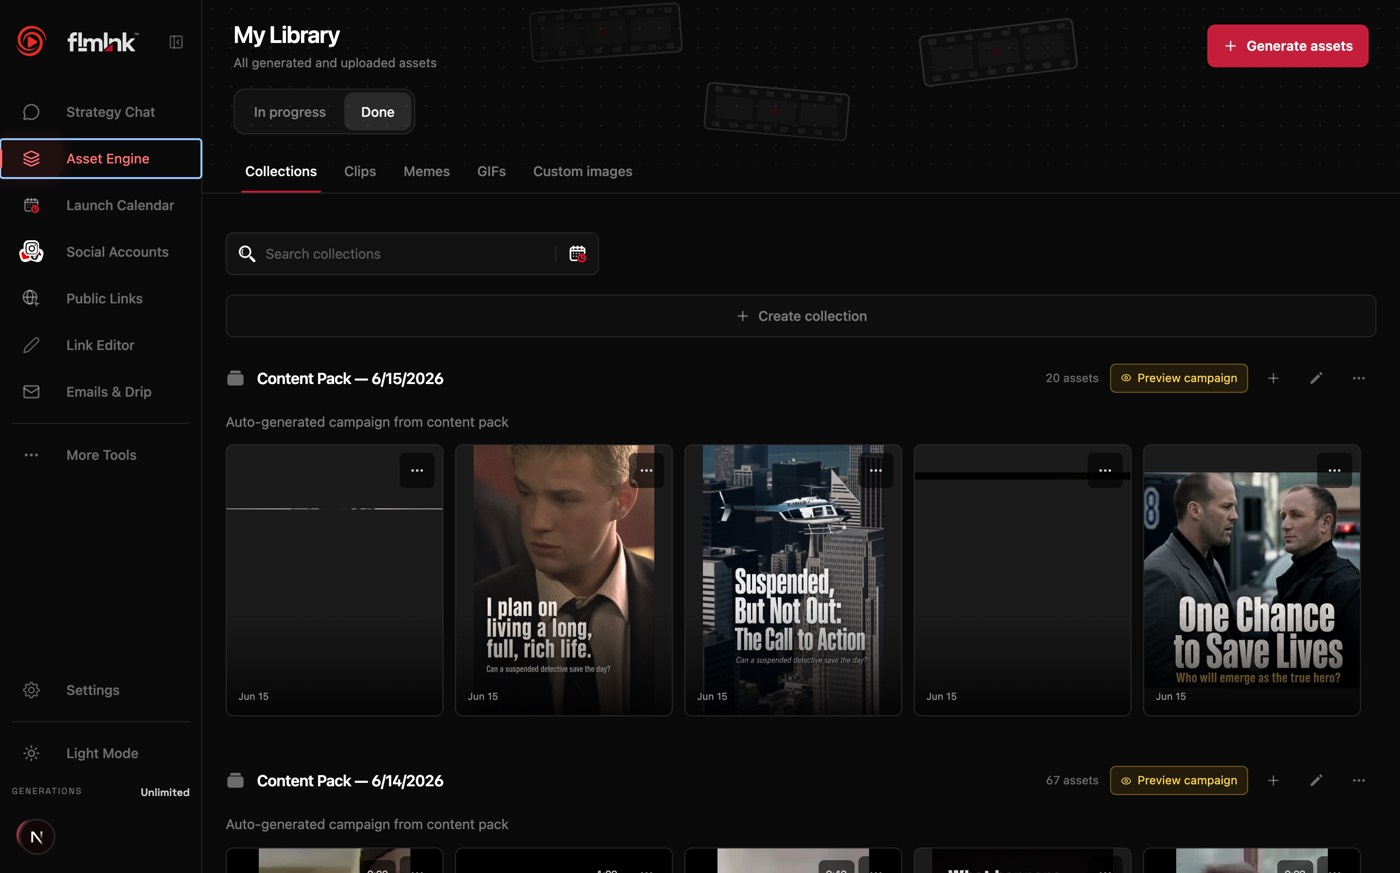
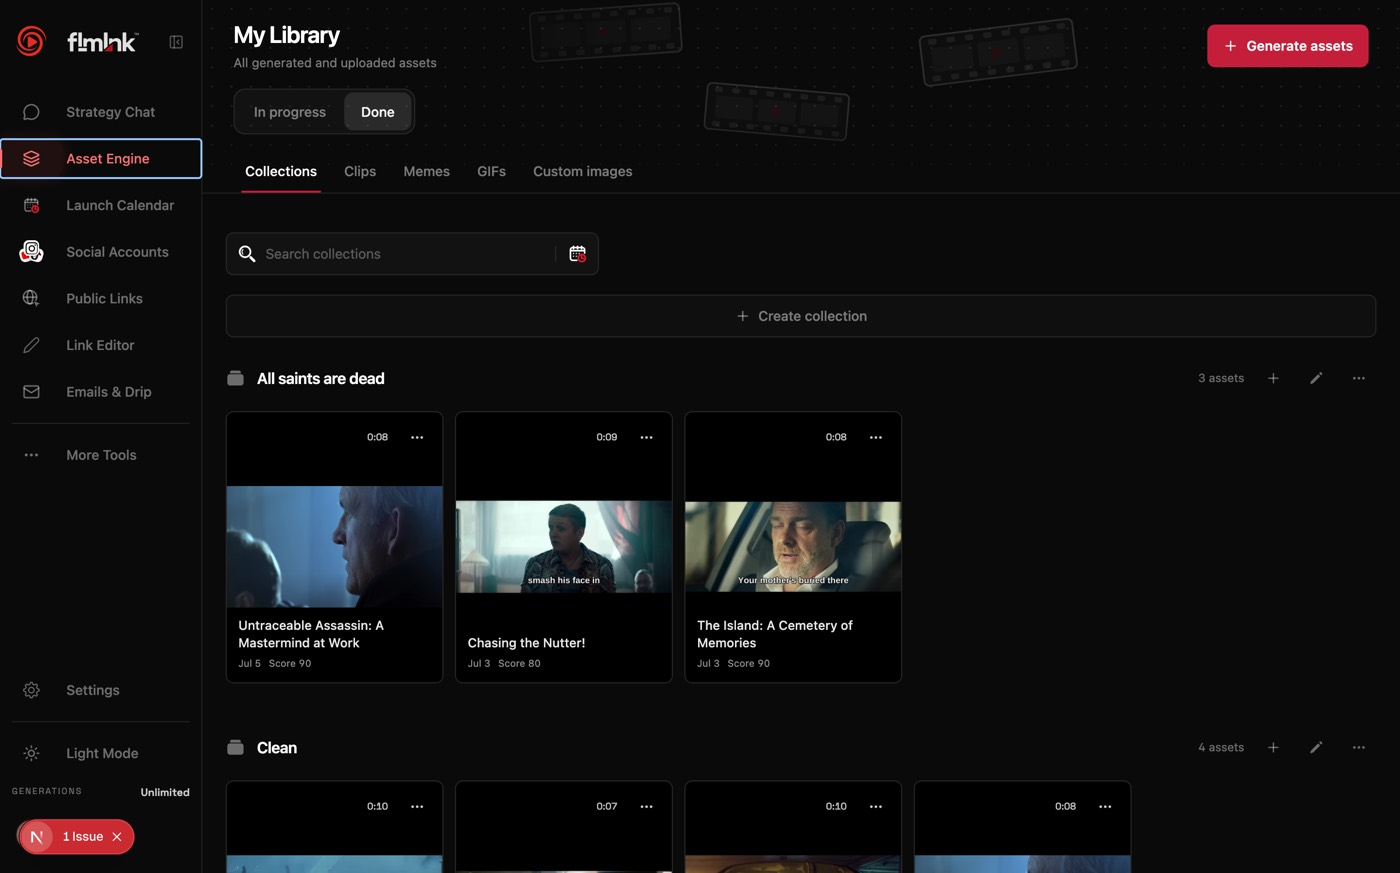
Recapture the after frames from the running build
Every after frame in the fix sections now comes from the current branch running
locally against its own data, captured at the same viewport in dark mode, rather
than from production which still holds auto-generated content packs from June.

That corrects the asset library comparison. A normal collection carries a real
name, a date and a score under clean artwork, with no campaign badge and no
repeated subtitle. The earlier frame showed legacy packs and was withdrawn.

Also upgraded the email composer and public links frames from the same session,
and added two screens that had no image before. Settings is now shown as the
document it was rebuilt into, which the log had listed as pending capture. The
link editor preview is included under the public page teardown because it shows
the match score, the rating, the leaked placeholder and both competing buttons
still live, which makes clear that the teardown is a diagnosis rather than
shipped work.

diff --git a/renovation.html b/renovation.html
@@ -177,6 +177,13 @@ img{max-width:100%;height:auto}
 
   <p>The section that already worked was Clips and Reels, so it became the model for the rest, which is the same
   method the cross-screen audit used.</p>
+
+  <figure>
+    <img src="assets/public-still-live.jpg" alt="The link editor preview, still showing the match score, rating and two competing buttons" loading="lazy">
+    <figcaption><b>Still live today.</b> Captured from the running build while writing this. The match score, the
+    TV-MA rating, the leaked placeholder and both competing buttons are all still on the page. This teardown is a
+    diagnosis with a planned redesign, not work that has shipped, and the log says so.</figcaption>
+  </figure>
 </section>
 
 <hr class="rule">
@@ -375,24 +382,27 @@ img{max-width:100%;height:auto}
 
 <section>
   <h2>5 · Asset library</h2>
-  <p>The library holds everything the product generates, so it is the screen a filmmaker returns to most often.
-  It was also the screen the cross-screen audit found the worst repetition on.</p>
+  <p>The library holds everything the product generates, so it is the screen a filmmaker returns to most often,
+  and it is where the cross-screen audit found the worst repetition.</p>
 
-  <p><b>The problem.</b> Every card printed its raw generation prompt across the artwork. Because a whole row is
-  generated from one prompt, the identical sentence appeared on every card in that row, and the poster underneath
-  was unreadable. The audit evidence higher up this page shows it.</p>
-  <p><b>The change.</b> Captions came off the cards. Each asset now carries a real name taken from its content,
-  with the date and score beneath it, and the generation prompt moved into the detail view.</p>
-  <p><b>Why it matters.</b> A caption repeated five times across a row carries no information, and it was covering
-  the one thing on the screen that did. This is the Clips behaviour applied to the rest of the library.</p>
+  <figure>
+    <div class="cmp">
+      <img-comparison-slider keyboard="enabled" tabindex="0">
+        <img slot="first" src="assets/before-library.jpg" alt="The library in June, with the generation prompt printed across every poster">
+        <img slot="second" src="assets/after-library.jpg" alt="The library now, with a real name, date and score under clean artwork">
+      </img-comparison-slider>
+      <span class="tag b">Before</span><span class="tag a">After</span>
+    </div>
+    <figcaption>June on the left, the current build on the right, captured from the running app.</figcaption>
+  </figure>
 
-  <div class="callout">
-    <div class="t">Comparison pending a correct capture</div>
-    <p>An earlier version of this section carried an after frame that was not representative. It was captured
-    against a database still holding auto-generated content packs from June, which render a campaign badge that a
-    normal collection does not. The claim above is accurate and verified in the running build; the image is being
-    recaptured rather than shown wrong.</p>
-  </div>
+  <p><b>The problem.</b> Every card printed its raw generation prompt as a caption. A whole row is generated from
+  one prompt, so the identical sentence appeared on every card in that row, covering the artwork it was meant to
+  describe.</p>
+  <p><b>The change.</b> Each asset now carries a real name taken from its own content, with the date and a score
+  beneath it. The prompt moved into the detail view.</p>
+  <p><b>Why it matters.</b> A caption repeated five times across a row carries no information, and it was hiding
+  the one thing on screen that did. This is the behaviour Clips already had, applied to the rest of the library.</p>
 </section>
 
 <section>
@@ -417,6 +427,24 @@ img{max-width:100%;height:auto}
   <p><b>Why it matters.</b> A published film page carries more reputational weight than anything else in the
   product, because filmmakers send it to people they are trying to impress. Showing the artefact is more useful
   than describing it.</p>
+</section>
+
+<hr class="rule">
+
+<section>
+  <h2>7 · Settings, as a document</h2>
+  <p>Personal Info was thirty-four form controls, all open at once, most of them empty most of the time. Settings
+  is checked often and edited rarely, so it should read as a document and only become a form at the moment you
+  touch a field.</p>
+
+  <figure>
+    <img src="assets/settings-dossier.jpg" alt="Settings rebuilt as rows of label and value with an edit pencil on hover" loading="lazy">
+    <figcaption><b>Two registers sharing one row grammar.</b> Things you state, such as name and role, are rows with
+    a label, a value and a pencil on hover; clicking a line turns it into the input in place. Things about your
+    standing, such as plan and payouts, use the same row with a state dot and a single verb. Empty optional fields
+    fold under one line rather than sitting open. The principle was see less, lose nothing: every control still
+    exists, one click closer than it looked.</figcaption>
+  </figure>
 </section>
 
 <hr class="rule">
